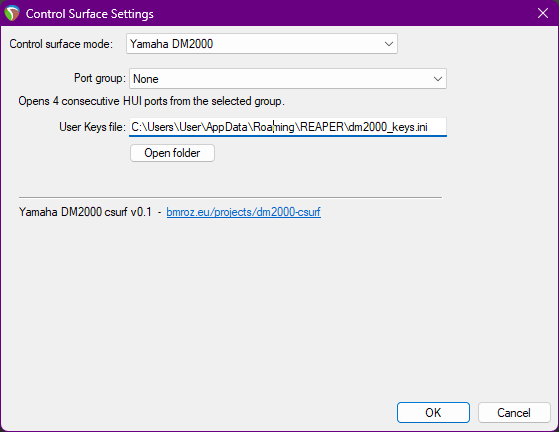
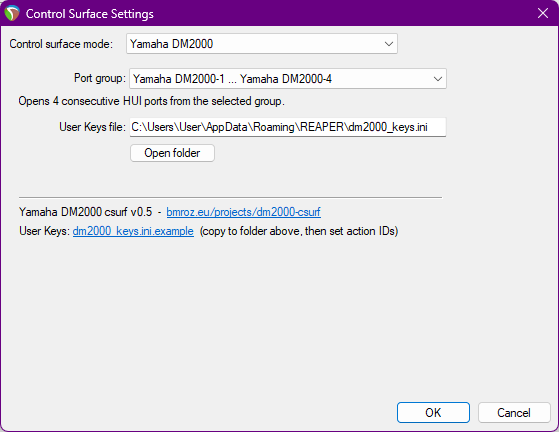
v0.5: update docs, dialog link, config screenshot, ini asset naming
- README: User Keys pre-built step now says dm2000_keys.ini (no rename needed)
- res.rc: dialog footer links to dm2000_keys_guide.md instead of ini.example
- doc/config-dialog.png: updated to v0.5 screenshot
- doc/dm2000_keys.ini.example: RETURN TO ZERO label fix
- doc/dm2000_keys_guide.md: RETURN TO ZERO label fix, default column corrections

diff --git a/README.md b/README.md
@@ -44,12 +44,16 @@ Restart REAPER after copying.
 > with a connected DM2000: v0.3 (2026-06-15) and v0.5 on both Intel and Apple Silicon.
 > All features work on macOS.
 
-**User Keys (Locate section and UDK buttons):** the build/install step copies
-[doc/dm2000_keys.ini.example](doc/dm2000_keys.ini.example) to REAPER's
-resource folder as `dm2000_keys.ini` if the file does not already exist. The
-config dialog path field is pre-filled to this location. Edit the file to
-change action IDs or add your own. Without this file, RTZ and END use
-built-in go-to-start/end; all other Locate and UDK buttons do nothing.
+**User Keys (Locate section and UDK buttons):** without `dm2000_keys.ini`,
+RETURN TO ZERO and END use built-in go-to-start/end; all other Locate and
+UDK buttons do nothing. See [doc/dm2000_keys_guide.md](doc/dm2000_keys_guide.md).
+
+- **Pre-built release:** download `dm2000_keys.ini` from the
+  [Releases](../../releases) page and place it in `%APPDATA%\REAPER\` (Windows)
+  or `~/Library/Application Support/REAPER/` (macOS). The config dialog path
+  is pre-filled to that location.
+- **Building from source:** the post-build / `make install` step copies it
+  automatically on first build.
 
 ## Building from source
 

diff --git a/doc/dm2000_keys_guide.md b/doc/dm2000_keys_guide.md
@@ -46,7 +46,7 @@ key = action_id
 
 | Key | Button | Default | Notes |
 |-----|--------|---------|-------|
-| `rtz` | RTZ | 0 (GoStart API) | Returns playhead to project start |
+| `rtz` | RETURN TO ZERO | 0 (GoStart API) | Returns playhead to project start |
 | `end` | END | 0 (GoEnd API) | Moves playhead to project end |
 | `online` | ONLINE | 0 | No standard REAPER equivalent; repurpose freely |
 | `loop` | LOOP | 1068 | Toggles repeat mode |
